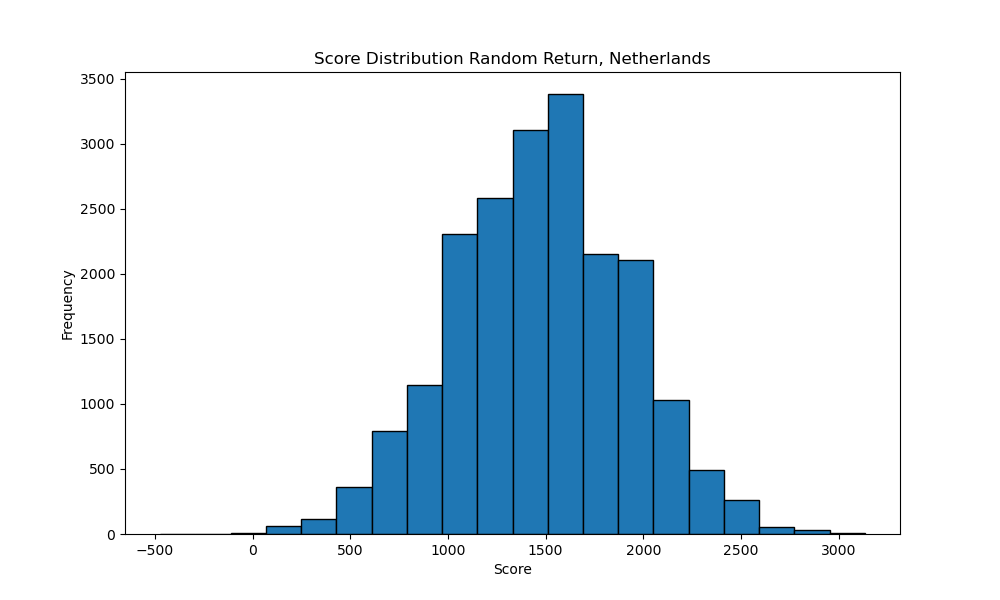
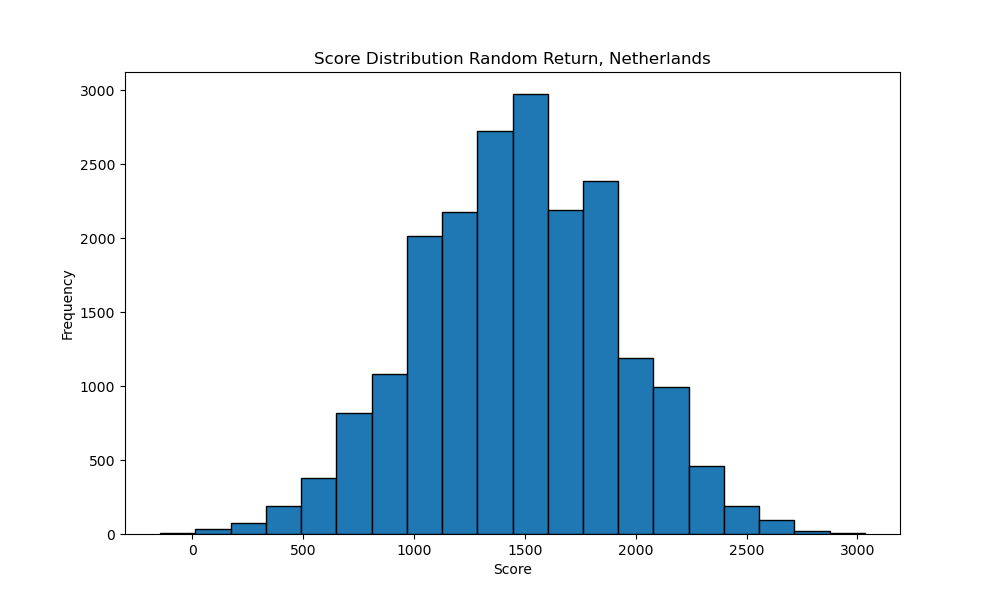
aanpassingen

diff --git a/main.py b/main.py
@@ -12,46 +12,46 @@ def main():
     if not os.path.exists('output'):
         os.makedirs('output')
 
-    # data for Noord-Holland
-    data = LoadData('data/ConnectiesHolland.csv', 'data/StationsHolland.csv')
-    all_connections = data.connections
-
-    # random return
-    random_r = Random_R(7, all_connections, 120)
-    random_r_results = Base(random_r.all_trajectories, random_r.trajectory_count, all_connections)
-
-    # random no return
-    random_nr = Random_NR(7, all_connections, 120)
-    random_nr_results = Base(random_nr.all_trajectories, random_nr.trajectory_count, all_connections)
-
-    # score Score_Optimizer
-    score_optimizer = Score_Optimizer(7, all_connections, 120)
-    score_optimizer_results = Base(score_optimizer.all_trajectories, score_optimizer.trajectory_count, all_connections)
-
-    # run experiment and calculate score
-    random_r.add_trajectory()
-    random_r_results.calculate_score()
-
-    random_nr.add_trajectory()
-    random_nr_results.calculate_score()
-
-    score_optimizer.add_trajectory()
-    score_optimizer_results.calculate_score()
-
-    # save results to csv
-    random_r_results.to_csv('output/output_r.csv')
-    random_nr_results.to_csv('output/output_nr.csv')
-    score_optimizer_results.to_csv('output/output_so.csv')
-
-    # calculate and plot score distribution
-    ScoreDistribution(20000, Random_R, all_connections, 'output/score_distribution_r.png', 'Score Distribution Random Return', 7, all_connections, 120)
-    ScoreDistribution(20000, Random_NR, all_connections, 'output/score_distribution_nr.png', 'Score Distribution Random No Return', 7, all_connections, 120)
-    ScoreDistribution(200, Score_Optimizer, all_connections, 'output/score_distribution_so.png', 'Score Distribution Optimizer', 7, all_connections, 120)
-
-    # plot the trajectories
-    plotter = TrainNetwork('data/ConnectiesHolland.csv', 'data/StationsHolland.csv')
-    plotter.create_graph()
-    plotter.plot_graph()
+    # # data for Noord-Holland
+    # data = LoadData('data/ConnectiesHolland.csv', 'data/StationsHolland.csv')
+    # all_connections = data.connections
+    #
+    # # random return
+    # random_r = Random_R(7, all_connections, 120)
+    # random_r_results = Base(random_r.all_trajectories, random_r.trajectory_count, all_connections)
+    #
+    # # random no return
+    # random_nr = Random_NR(7, all_connections, 120)
+    # random_nr_results = Base(random_nr.all_trajectories, random_nr.trajectory_count, all_connections)
+    #
+    # # score Score_Optimizer
+    # score_optimizer = Score_Optimizer(7, all_connections, 120)
+    # score_optimizer_results = Base(score_optimizer.all_trajectories, score_optimizer.trajectory_count, all_connections)
+    #
+    # # run experiment and calculate score
+    # random_r.add_trajectory()
+    # random_r_results.calculate_score()
+    #
+    # random_nr.add_trajectory()
+    # random_nr_results.calculate_score()
+    #
+    # score_optimizer.add_trajectory()
+    # score_optimizer_results.calculate_score()
+    #
+    # # save results to csv
+    # random_r_results.to_csv('output/output_r.csv')
+    # random_nr_results.to_csv('output/output_nr.csv')
+    # score_optimizer_results.to_csv('output/output_so.csv')
+    #
+    # # calculate and plot score distribution
+    # ScoreDistribution(20000, Random_R, all_connections, 'output/score_distribution_r.png', 'Score Distribution Random Return', 7, all_connections, 120)
+    # ScoreDistribution(20000, Random_NR, all_connections, 'output/score_distribution_nr.png', 'Score Distribution Random No Return', 7, all_connections, 120)
+    # ScoreDistribution(200, Score_Optimizer, all_connections, 'output/score_distribution_so.png', 'Score Distribution Optimizer', 7, all_connections, 120)
+    #
+    # # plot the trajectories
+    # plotter = TrainNetwork('data/ConnectiesHolland.csv', 'data/StationsHolland.csv')
+    # plotter.create_graph()
+    # plotter.plot_graph()
 
     # data for Nederland
     data = LoadData('data/ConnectiesNationaal.csv', 'data/StationsNationaal.csv')
@@ -86,6 +86,7 @@ def main():
     # calculate and plot score distribution
     ScoreDistribution(20000, Random_R, all_connections, 'output/NL_score_distribution_r.png', 'Score Distribution Random Return, Netherlands', 7, all_connections, 120)
     ScoreDistribution(20000, Random_NR, all_connections, 'output/NL_score_distribution_nr.png', 'Score Distribution Random No Return, Netherlands', 7, all_connections, 120)
+    ScoreDistribution(200, Score_Optimizer, all_connections, 'output/NL_score_distribution_so.png', 'Score Distribution Optimizer', 7, all_connections, 120)
 
     # plot the trajectories
     plotter = TrainNetwork('data/ConnectiesNationaal.csv', 'data/StationsNationaal.csv')

diff --git a/algorithms/best_score.py b/algorithms/best_score.py
@@ -1,15 +1,19 @@
-from algorithms.random_NR import Random_NR
+from algorithms.random_R import Random_R
 from algorithms.base import Base
 
-class Score_Optimizer(Random_NR):
+class Score_Optimizer(Random_R):
 
     def select_next_station(self, possible_connections):
         possible_connections_scores = []
 
         for connection in possible_connections:
             current_trajectory = self.connections[:]
+            print("cj", current_trajectory)
             current_trajectory.append(connection)
-            score = self.calculate_p_for_trajectory(current_trajectory)
+            print("possible_connections", possible_connections)
+            print("connection", connection)
+            score = self.calculate_score_for_trajectory(current_trajectory)
+            print("score", score)
             possible_connections_scores.append(score)
 
         best_connection_index = possible_connections_scores.index(max(possible_connections_scores))

diff --git a/algorithms/random_R.py b/algorithms/random_R.py
@@ -104,11 +104,23 @@ class Random_R:
 
         return self.all_trajectories
 
-    def calculate_p_for_trajectory(self, trajectory):
+    def calculate_score_for_trajectory(self, trajectory):
+
         unique_connections = set()
         for i in range(len(trajectory) - 1):
             connection = frozenset((trajectory[i], trajectory[i + 1]))
             unique_connections.add(connection)
         total_connections = self.calculate_total_connections()
         p = len(unique_connections) / (total_connections / 2)
-        return p
+
+        minutes = 0
+        for trajectory in self.all_trajectories.values():
+            for i in range(len(trajectory) - 1):
+                current_station = trajectory[i]
+                next_station = trajectory[i + 1]
+                minutes += self.all_connections[current_station][next_station]
+
+
+        k = p * 10000 - (self.trajectory_count * 100 + minutes)
+
+        return k
